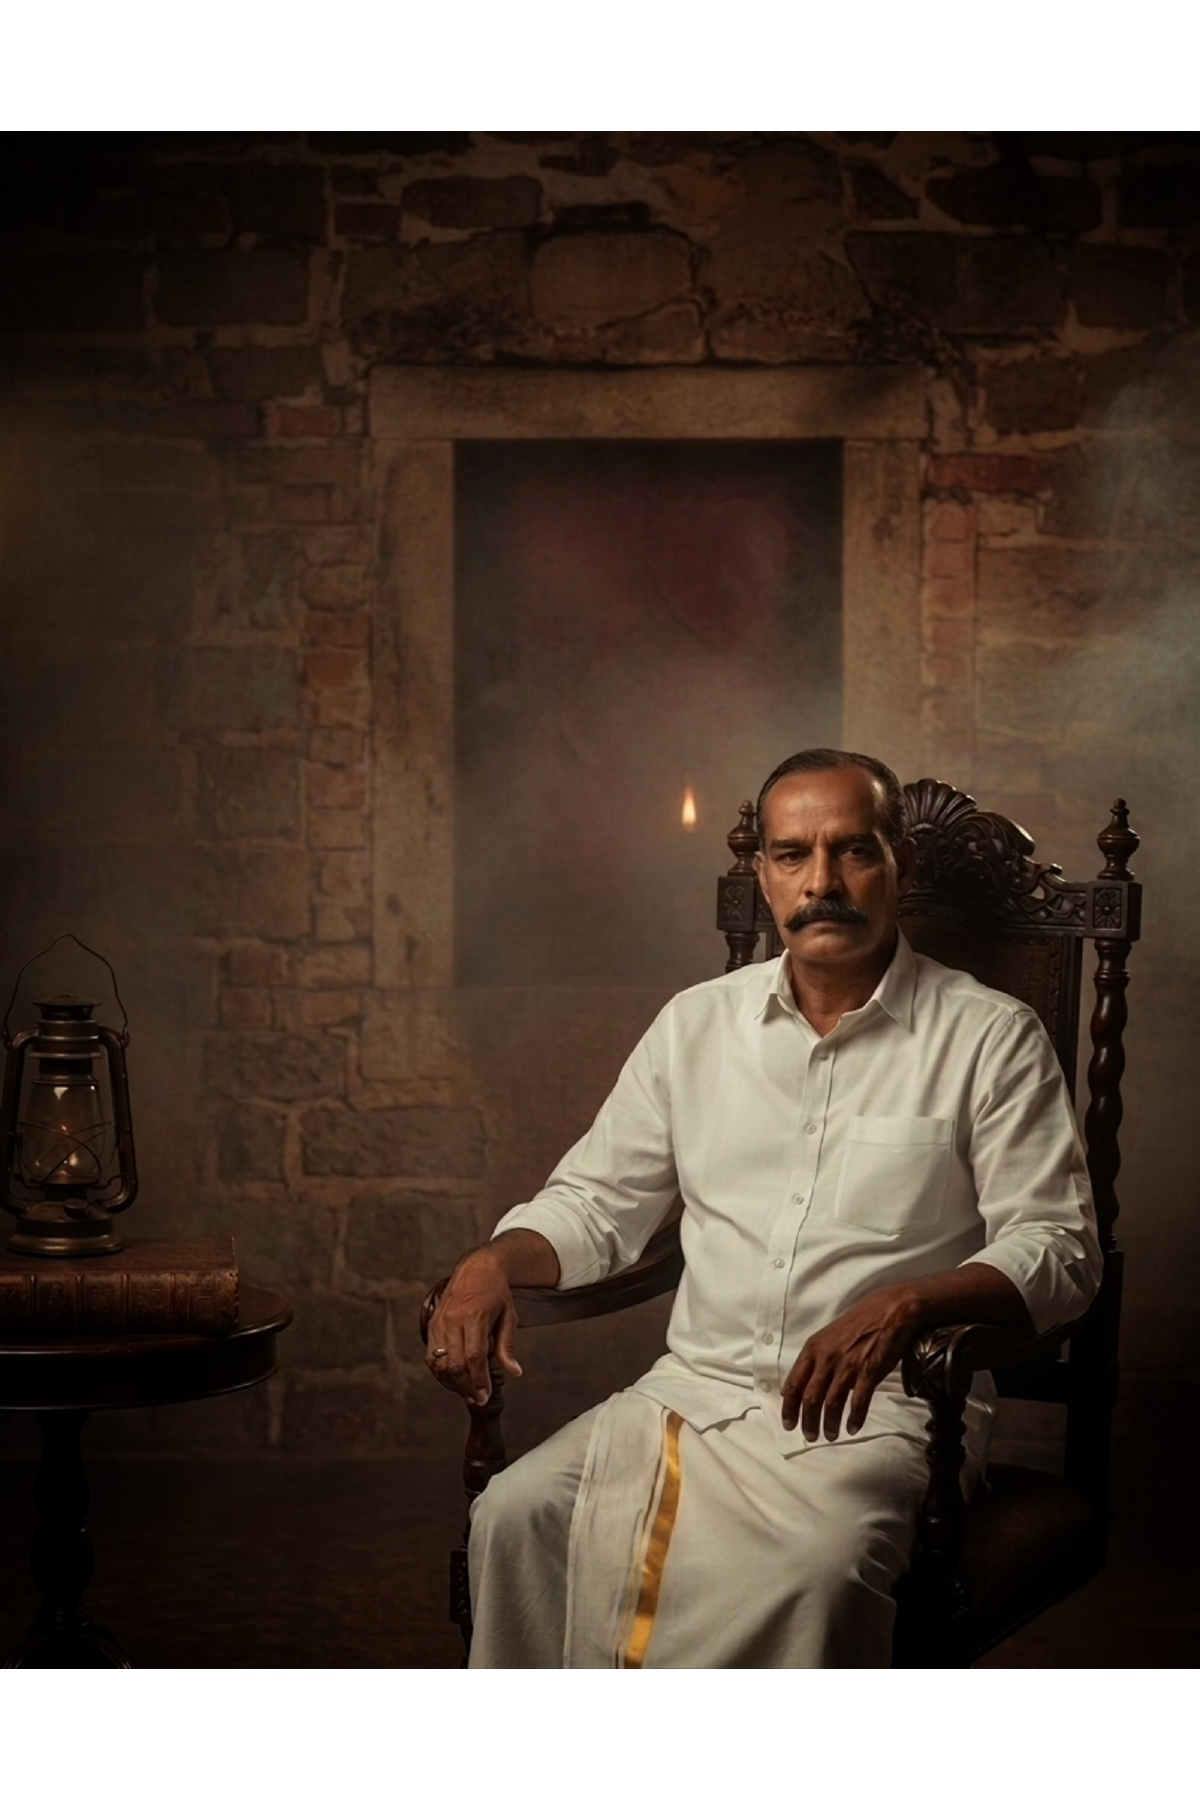
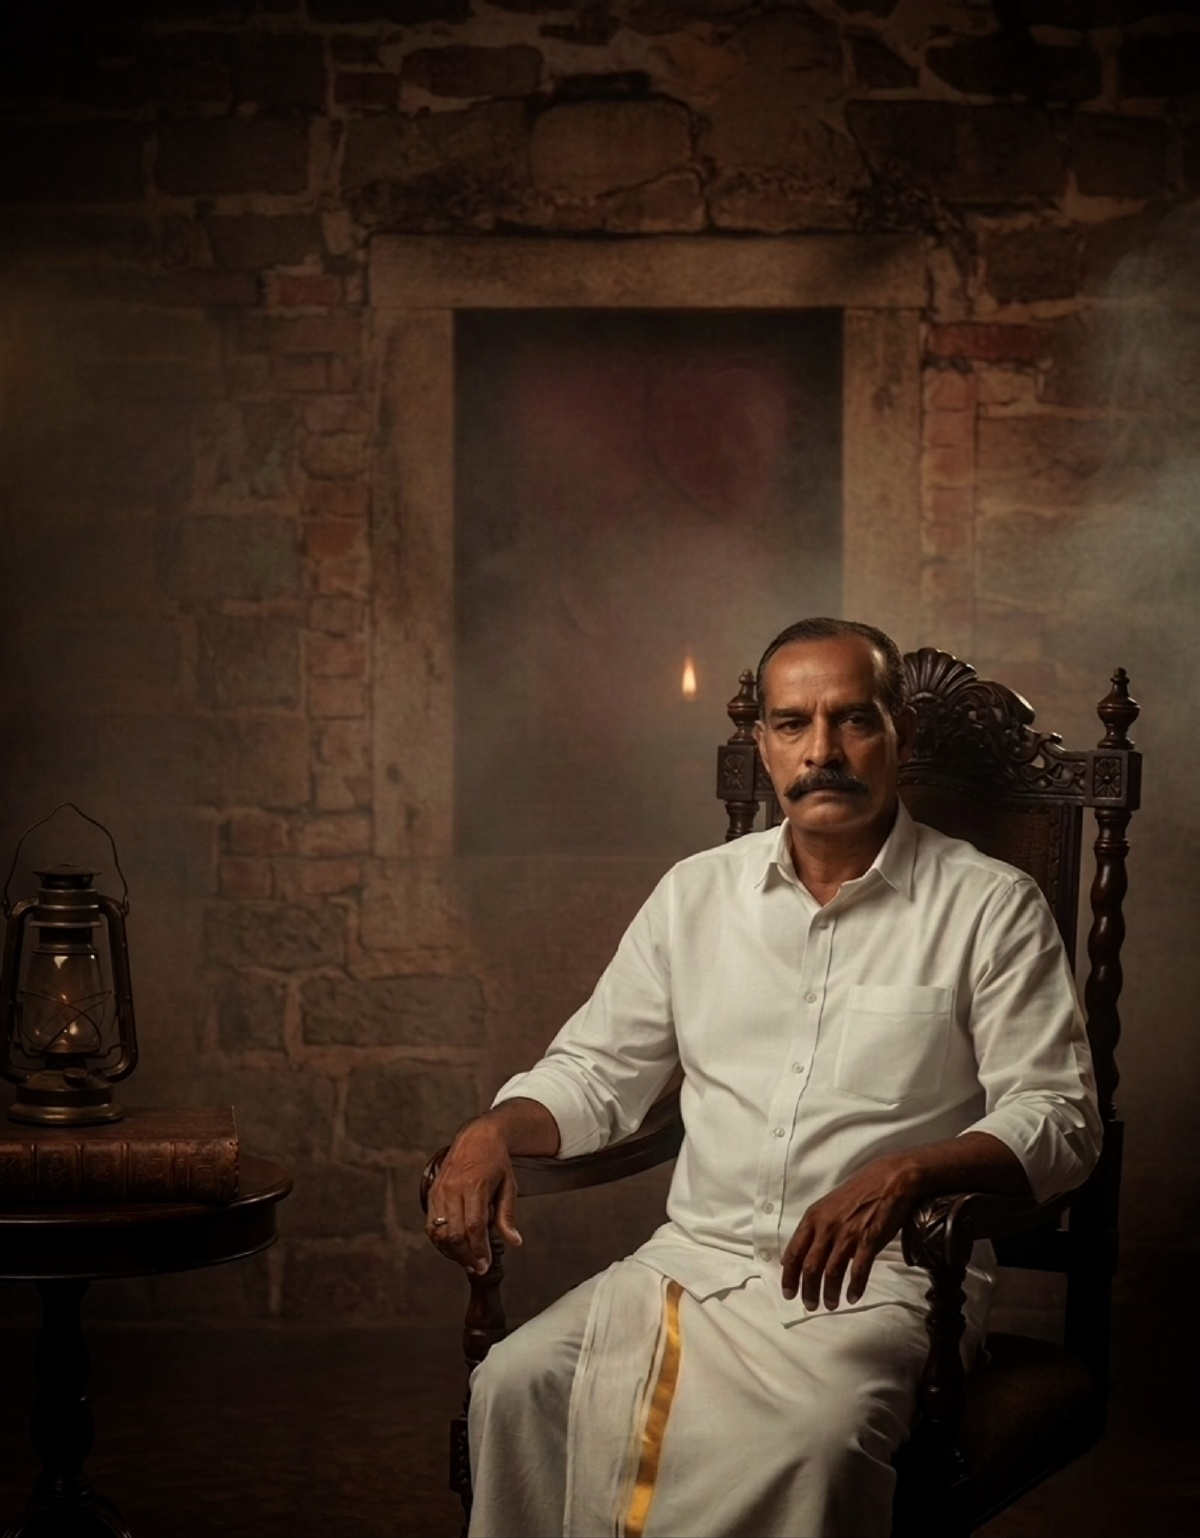
feat: design split Hero layout with founder portrait, fix SplashIntro timing & scroll-dismissal

diff --git a/src/components/FounderSpotlight.tsx b/src/components/FounderSpotlight.tsx
@@ -12,14 +12,12 @@ export default function FounderSpotlight() {
         viewport={{ once: true }}
         className="relative"
       >
-        <div className="relative z-10 p-4 bg-white shadow-xl rotate-[-2deg] border border-accent-gold/20">
-          {/* CLIENT ACTION REQUIRED: Replace this placeholder with the actual photograph of Dr. P. Abdul Sathar Gurukkal provided by the hospital. Recommended size: 800x1000px, format: JPG or WebP, file location: /public/images/founder-dr-sathar.jpg */}
+        <div className="relative z-10 shadow-2xl rotate-[-2deg] border border-accent-gold/20 rounded-2xl overflow-hidden">
           <img 
             src="/images/vmfounder.jpg" 
             alt="Dr. P. Abdul Sathar Gurukkal - Founder and Chief Physician, Vaidyarmandiram Ayurveda Hospital Kerala" 
             className="w-full aspect-[4/5] object-cover"
           />
-          <div className="absolute inset-0 border-2 border-accent-gold/30 m-2 pointer-events-none"></div>
         </div>
         
         {/* Decorative elements */}
